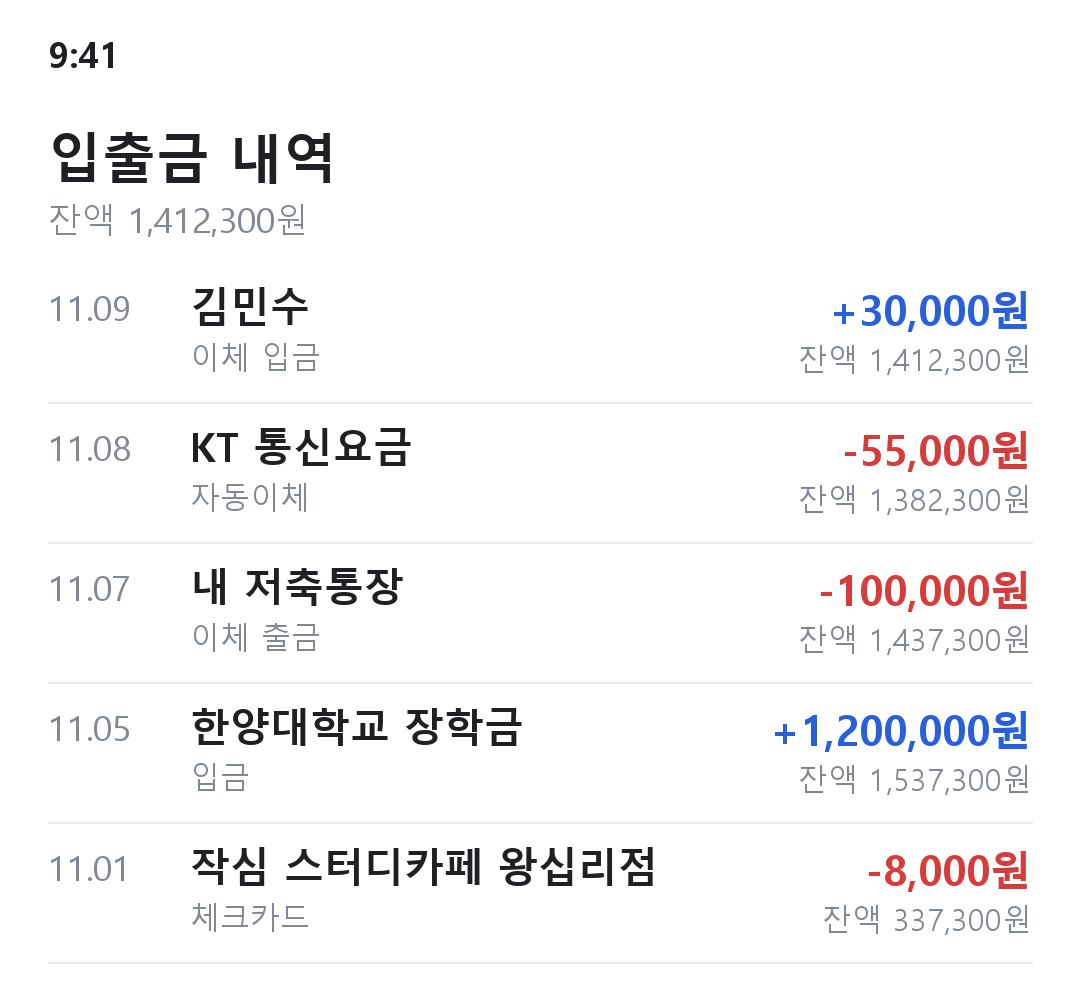
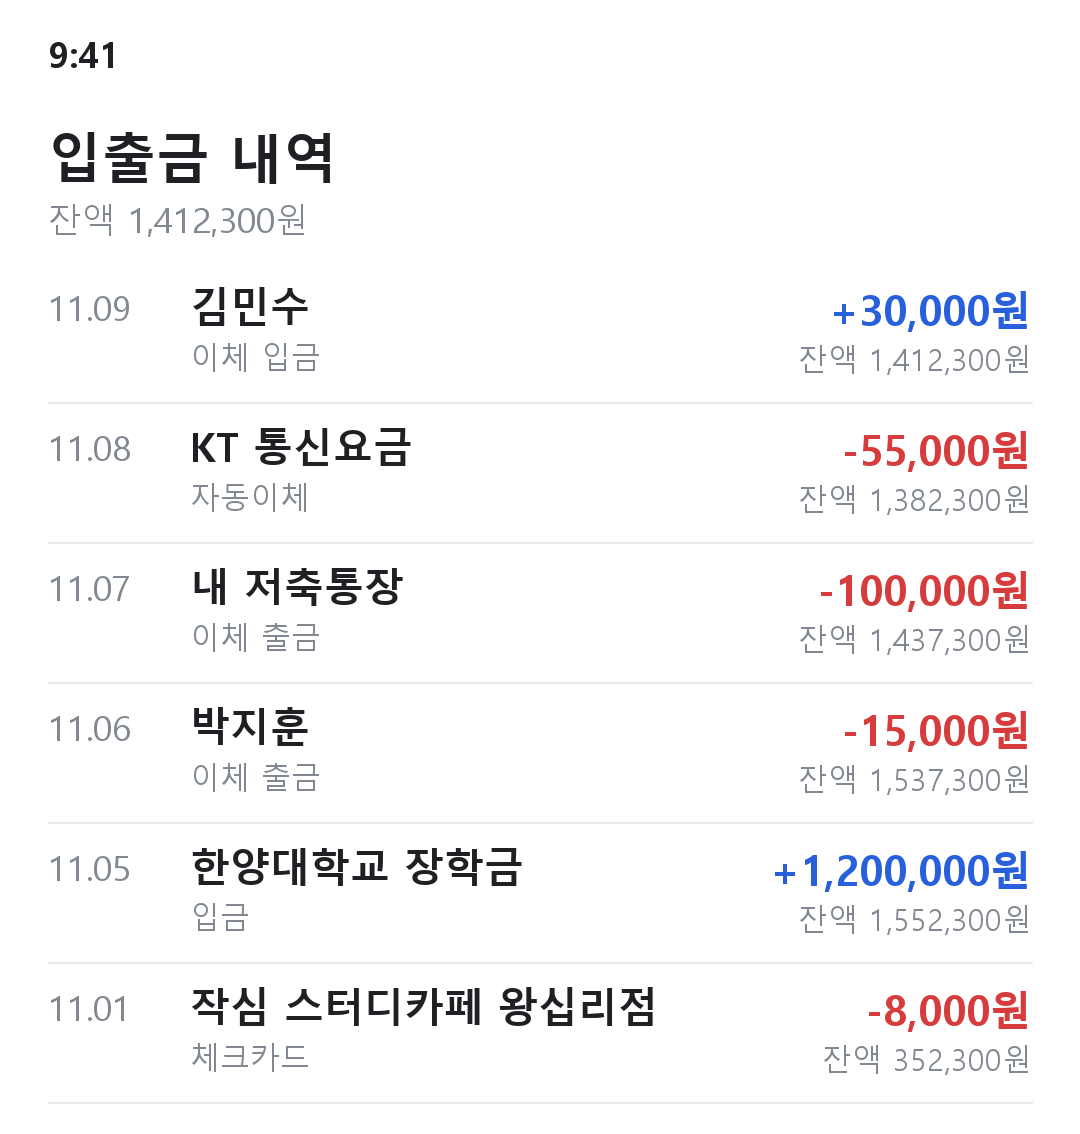
고정비 이중 계산을 막고 개발 중 폰 접속을 허용
- 고정비로 등록한 결제는 하루 예산의 쓴 돈에서 제외 (isFixedCost, 시험 추가)
- 개발 중 upgrade-insecure-requests를 꺼서 http로 폰 접속 가능
- 친구에게 보낸 돈이 지출로 분류되는지 재는 가짜 캡처 추가
- 명세서를 현재 디자인과 배포 방식에 맞게 수정

diff --git a/src/services/fixedCosts.js b/src/services/fixedCosts.js
@@ -1,0 +1,13 @@
+const { normalizeMerchant } = require('./rules');
+
+// 고정비로 등록한 항목의 결제인지 확인해요. (예: 고정비 "넷플릭스" ↔ 거래 "넷플릭스코리아")
+// 고정비는 예산에서 이미 뺐으니, 하루 예산의 "쓴 돈"에서는 빼야 두 번 계산되지 않아요.
+function isFixedCost(merchant, fixedCosts) {
+  const name = normalizeMerchant(merchant);
+  return fixedCosts.some((cost) => {
+    const costName = normalizeMerchant(cost.name);
+    return costName.length >= 2 && name.includes(costName);
+  });
+}
+
+module.exports = { isFixedCost };

diff --git a/src/app.js b/src/app.js
@@ -23,6 +23,8 @@ function createApp() {
           'font-src': ["'self'", 'https://cdn.jsdelivr.net', 'data:'],
           'img-src': ["'self'", 'data:', 'blob:'],
           'connect-src': ["'self'", 'https://cdn.jsdelivr.net'],
+          // 개발 중에는 폰에서 http://내컴퓨터IP:3000 으로 열어 볼 수 있게 꺼 둬요.
+          'upgrade-insecure-requests': config.isProd ? [] : null,
         },
       },
     }),

diff --git a/docs/requirements.md b/docs/requirements.md
@@ -20,7 +20,7 @@
 | 사용자 | 대학생(청년) |
 | 실행 환경 | 웹 앱 (PC + 폰 브라우저, 반응형) |
 | 동시 접속자 | 5~10명 (팀원 + 시연) |
-| 디자인 | 깔끔하고 단순하게 (흰 바탕, 포인트 색 1개, Bootstrap 5 기본 컴포넌트) |
+| 디자인 | 영수증·통장 콘셉트 (종이색 배경, 포인트 색 1개, Bootstrap 5 기반) |
 | 기존 앱과 다른 점 | ① 계좌 연동 없이 캡처만 올리면 됨 ② 대학생에 맞는 카테고리 ③ 내 계좌끼리 보낸 돈은 지출에서 뺌 ④ 많이 쓴 분야에 맞는 청년 정책·대안 추천 |
 
 ## 3. 기술 스택
@@ -34,7 +34,7 @@
 | AI | 사진을 읽을 수 있는 AI API (Claude) | 2강, 7강 |
 | 버전 관리 | Git + GitHub (기능별 브랜치) | 4강 |
 | API 테스트 | Thunder Client | 9강 |
-| 배포 | Cloud Run 또는 Vercel (11/24까지) | 7강 |
+| 배포 | Cloud Run (11/24까지, 순서: `docs/DEPLOY.md`) | 7강 |
 | 개발 도구 | Claude Code, Codex | 1강, 7강 |
 
 - 화면 파일(HTML/JS)은 Express가 같이 서비스함 → 같은 주소라 CORS 문제가 줄어듦 (9강)
@@ -48,7 +48,7 @@
 
 ### F1. 계좌·카드 등록
 - 내가 쓰는 계좌·카드를 직접 입력: 이름, 은행·카드사, **용도** (예: "생활비 통장", "저축 통장")
-- 등록한 **내 계좌끼리 보낸 돈은 지출로 세지 않음**
+- 등록한 **내 계좌끼리 보낸 돈은 지출로 세지 않음** (다른 사람에게 보낸 돈은 지출)
 
 ### F2. 캡처 올리면 AI가 분류하고 저장
 1. 은행·카드 앱의 결제내역 화면 캡처를 올림 (한 번에 최대 5장, 장당 5MB 이하)
@@ -69,6 +69,7 @@
 ### F4. 하루 예산 경고 (홈)
 - 설정에서 월 예산과 고정비(구독료, 통신비 등)를 입력
 - **오늘 쓸 수 있는 돈** = (월 예산 − 고정비 − 이번 달 어제까지 쓴 돈) ÷ 오늘을 포함한 남은 날짜
+- 고정비로 등록한 결제는 "쓴 돈"에서 뺌 (고정비가 두 번 빠지지 않게)
 - 오늘 쓴 돈이 80%를 넘으면 노란 경고, 100%를 넘으면 빨간 경고 (화면에 표시)
 
 ### F5. 월별 보기

diff --git a/docs/guides/C-summary.md b/docs/guides/C-summary.md
@@ -17,6 +17,7 @@
 - 오늘 쓸 수 있는 돈 = (월 예산 − 고정비 합계 − 어제까지 쓴 돈) ÷ 오늘 포함 남은 날짜
 - 오늘 쓴 돈이 그 금액의 80% 이상이면 `"warning"`(노랑), 100% 이상이면 `"over"`(빨강)
 - 지출(`isExpense: true`)만 더해요. 이체·입금은 빼요.
+- 고정비로 등록한 결제(예: 넷플릭스)는 "쓴 돈"에서 빼요. 안 그러면 고정비가 두 번 빠져요. `src/services/fixedCosts.js`의 `isFixedCost(가게이름, 고정비목록)`을 쓰면 돼요.
 
 자세한 응답 모양은 `docs/API.md`의 **F4·F5 요약**을 그대로 따라요.
 
@@ -28,6 +29,7 @@
 [Task] src/routes/summary.js에 docs/API.md의 "F4·F5 요약" API 2개를 만들어 줘.
        notImplemented는 지우고, 항상 user: req.userId 조건으로 계산해 줘.
        날짜 계산은 한국 시간(Asia/Seoul) 기준으로 해 줘.
+       오늘 예산의 쓴 돈에서는 src/services/fixedCosts.js의 isFixedCost()로 고정비 결제를 빼 줘.
        계산 부분은 따로 함수로 빼서 테스트하기 쉽게 해 줘.
 [Format] 코드를 고친 뒤 무엇을 바꿨는지 3줄로 알려 줘.
 ```

diff --git a/docs/API.md b/docs/API.md
@@ -179,6 +179,7 @@
 - `dailyAllowance` = (월 예산 − 고정비 합계 − 어제까지 쓴 돈) ÷ 오늘 포함 남은 날짜, 원 단위 버림, 0보다 작으면 0
 - `level`: 오늘 쓴 돈이 `dailyAllowance`의 80% 미만 `"ok"`, 80% 이상 `"warning"`, 100% 이상 `"over"`. 예산을 아직 안 정해서 둘 다 0이면 `"ok"`
 - 지출(`isExpense: true`)만 더해요
+- 고정비로 등록한 결제는 `spentBeforeToday`, `spentToday`에서 빼요. 예산에서 이미 뺐으니 두 번 계산하지 않아요. `src/services/fixedCosts.js`의 `isFixedCost()`를 쓰면 돼요. 월별 합계에는 그대로 넣어요
 
 ### GET /api/summary/monthly?month=2026-11
 ```json
